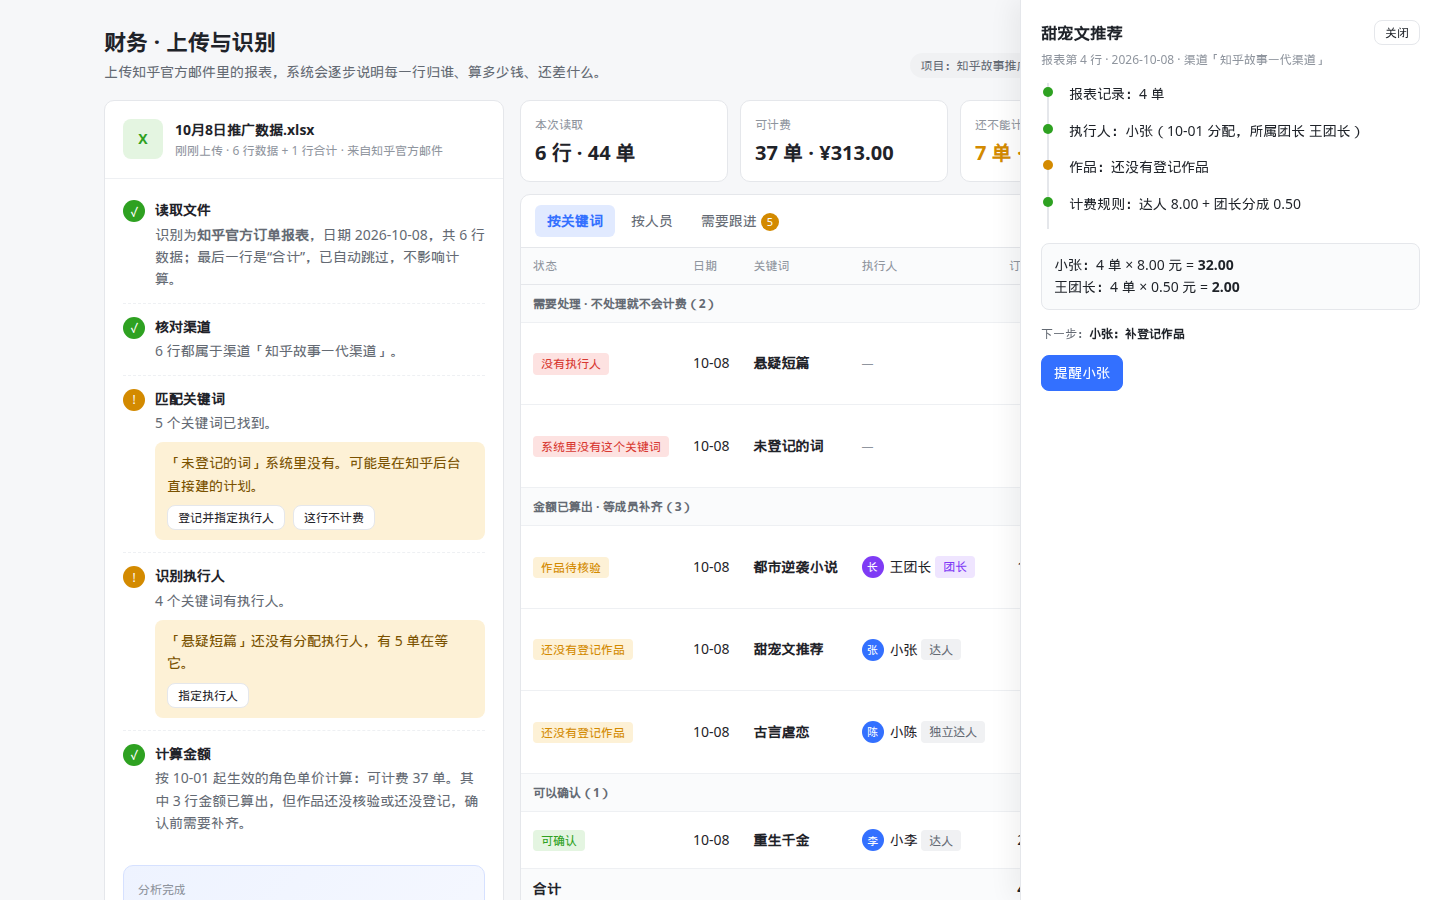
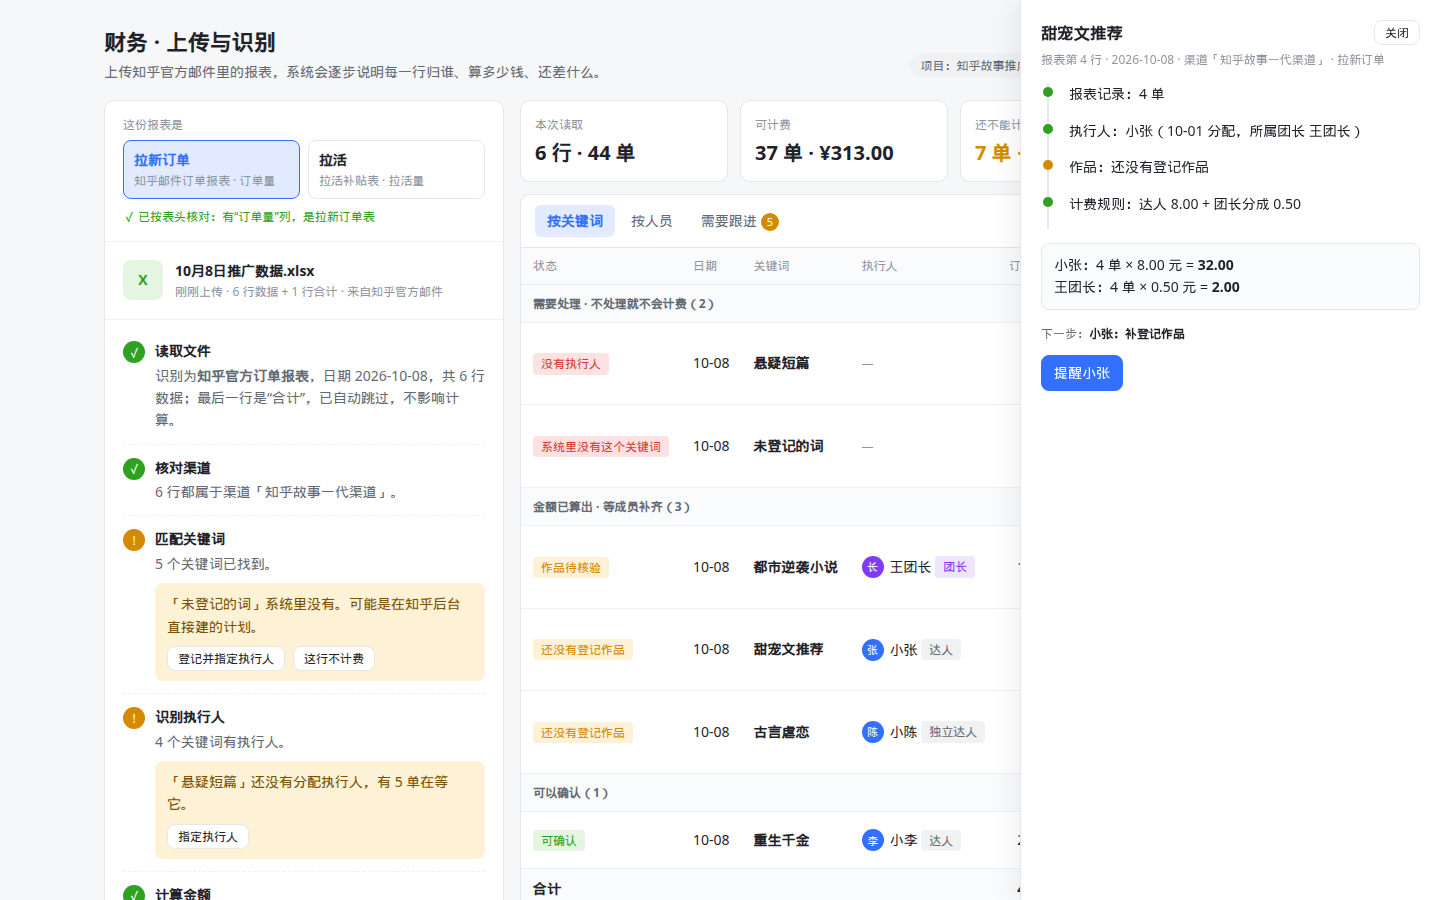
docs: add new-user vs activation report type selection to prototype

Changed region(s): [[0.0625, 0.1244, 0.3438, 1.0]]

diff --git a/prototypes/report-analysis/index.html b/prototypes/report-analysis/index.html
@@ -81,6 +81,13 @@ tfoot td{font-weight:600;background:#fafbfc}
 .trace li.cur:before{background:var(--amber)}
 .formula{background:#fafbfc;border:1px solid var(--line);border-radius:8px;padding:10px 12px;font-variant-numeric:tabular-nums}
 .cards{display:none}
+.type-pick{padding:14px 18px;border-bottom:1px solid var(--line2)}
+.seg{display:grid;grid-template-columns:1fr 1fr;gap:8px;margin-top:6px}
+.opt{display:block;border:1px solid var(--line);border-radius:8px;padding:8px 10px;color:var(--ink);text-decoration:none;font-weight:600}
+.opt small{display:block;font-weight:400;color:var(--ink3);font-size:12px}
+.opt.on{border-color:var(--brand);background:var(--brand-soft);color:var(--brand)}
+.check{margin-top:8px;font-size:12px;color:var(--green)}
+.t-type{background:#e8f3ff;color:#1f6fd1}
 @media (max-width:900px){
  .page{padding:12px}
  .grid{grid-template-columns:1fr}
@@ -104,7 +111,8 @@ tfoot td{font-weight:600;background:#fafbfc}
  </div>
  <div class="grid">
   <div class="card" id="agent">
-   <div class="drop"><div class="file-ico">X</div><div><div class="file-name">10月8日推广数据.xlsx</div><div class="muted">刚刚上传 · 6 行数据 + 1 行合计 · 来自知乎官方邮件</div></div></div>
+   <div class="type-pick" id="typePick"></div>
+   <div class="drop"><div class="file-ico">X</div><div><div class="file-name" id="fileName"></div><div class="muted" id="fileMeta"></div></div></div>
    <div class="steps" id="steps"></div>
    <div class="conclusion" id="conclusion">
     <div class="muted">分析完成</div>
@@ -115,7 +123,7 @@ tfoot td{font-weight:600;background:#fafbfc}
   </div>
   <div>
    <div class="metrics">
-    <div class="metric"><span class="muted">本次读取</span><b>6 行 · 44 单</b></div>
+    <div class="metric"><span class="muted">本次读取</span><b id="mRead">—</b></div>
     <div class="metric"><span class="muted">可计费</span><b id="mOk">—</b></div>
     <div class="metric warn"><span class="muted">还不能计费（已保留）</span><b id="mTodo">—</b></div>
     <div class="metric"><span class="muted">处理完预计再增加</span><b id="mEst">—</b></div>
@@ -137,7 +145,7 @@ tfoot td{font-weight:600;background:#fafbfc}
 </div>
 <aside class="drawer" id="drawer"></aside>
 <script>
-const rows=[
+const NEW_ROWS=[
  {kw:'重生千金',date:'10-08',orders:20,exec:'小李',role:'达人',leader:'王团长',rule:'达人 8.00 + 团长分成 0.50',lines:[['小李',160],['王团长',10]],status:'ok',next:'财务：确认账单',line:3},
  {kw:'都市逆袭小说',date:'10-08',orders:10,exec:'王团长',role:'团长',leader:'—',rule:'团长本人 8.50',lines:[['王团长',85]],status:'wait',reason:'作品待核验',next:'管理员：核验作品',line:2,act:'去核验'},
  {kw:'甜宠文推荐',date:'10-08',orders:4,exec:'小张',role:'达人',leader:'王团长',rule:'达人 8.00 + 团长分成 0.50',lines:[['小张',32],['王团长',2]],status:'wait',reason:'还没有登记作品',next:'小张：补登记作品',line:4,act:'提醒小张'},
@@ -145,36 +153,60 @@ const rows=[
  {kw:'悬疑短篇',date:'10-08',orders:5,exec:null,role:'',leader:'',rule:'—',lines:[],status:'todo',reason:'没有执行人',next:'运营：指定执行人',line:6,act:'指定执行人'},
  {kw:'未登记的词',date:'10-08',orders:2,exec:null,role:'',leader:'',rule:'—',lines:[],status:'todo',reason:'系统里没有这个关键词',next:'运营：登记并指定执行人',line:7,act:'登记关键词'},
 ];
-const steps=[
+const NEW_STEPS=[
  {t:'读取文件',b:'识别为<b>知乎官方订单报表</b>，日期 2026-10-08，共 6 行数据；最后一行是“合计”，已自动跳过，不影响计算。'},
  {t:'核对渠道',b:'6 行都属于渠道「知乎故事一代渠道」。'},
  {t:'匹配关键词',b:'5 个关键词已找到。',ask:'「未登记的词」系统里没有。可能是在知乎后台直接建的计划。',acts:['登记并指定执行人','这行不计费']},
  {t:'识别执行人',b:'4 个关键词有执行人。',ask:'「悬疑短篇」还没有分配执行人，有 5 单在等它。',acts:['指定执行人']},
  {t:'计算金额',b:'按 10-01 起生效的角色单价计算：可计费 37 单。其中 3 行金额已算出，但作品还没核验或还没登记，确认前需要补齐。'},
 ];
+const ACT_ROWS=[
+ {kw:'浩浩哑女',date:'09-14',orders:1,exec:'小李',role:'达人',leader:'王团长',rule:'拉活：达人 1.20 + 团长分成 0.40',lines:[['小李',1.2],['王团长',0.4]],status:'ok',next:'财务：确认账单',line:2},
+ {kw:'重生千金',date:'09-14',orders:6,exec:'小李',role:'达人',leader:'王团长',rule:'拉活：达人 1.20 + 团长分成 0.40',lines:[['小李',7.2],['王团长',2.4]],status:'ok',next:'财务：确认账单',line:3},
+ {kw:'都市逆袭小说',date:'09-14',orders:2,exec:'王团长',role:'团长',leader:'—',rule:'拉活：团长本人 1.60',lines:[['王团长',3.2]],status:'ok',next:'财务：确认账单',line:4},
+ {kw:'古言虐恋',date:'09-14',orders:3,exec:'小陈',role:'独立达人',leader:'—',rule:'拉活：独立达人（单价未定）',lines:[],status:'todo',reason:'拉活单价还没设置',next:'财务：设置拉活单价',line:5,act:'去设置单价'},
+];
+const ACT_STEPS=[
+ {t:'读取文件',b:'识别为<b>拉活补贴表</b>（代理：广州渡川），日期 2026-09-14，共 4 行。'},
+ {t:'核对渠道',b:'4 行都属于渠道「渡川-知星河」，和拉新订单用的是同一个渠道。'},
+ {t:'匹配关键词',b:'4 个关键词都找到了，执行人沿用关键词当前的归属。'},
+ {t:'核对结算金额',b:'每行“结算金额 = 拉活量 × 2.00 元”，4 行全部一致，合计 ¥24.00。'},
+ {t:'计算金额',b:'按拉活单价计算：可计费 9 个。',ask:'独立达人的拉活单价还没定，小陈的 3 个拉活先保留，不会丢。',acts:['去设置拉活单价']},
+];
+const MODE=location.search.includes('activation')?'activation':'new';
+const rows=MODE==='activation'?ACT_ROWS:NEW_ROWS, steps=MODE==='activation'?ACT_STEPS:NEW_STEPS;
+const UNIT=MODE==='activation'?'个':'单', EST=MODE==='activation'?1.6:8.5;
 const fmt=n=>n.toLocaleString('zh-CN',{minimumFractionDigits:2});
 const amount=r=>r.lines.reduce((s,l)=>s+l[1],0);
 const tag=r=>r.status==='ok'?'<span class="tag t-ok">可确认</span>':r.status==='wait'?`<span class="tag t-wait">${r.reason}</span>`:`<span class="tag t-todo">${r.reason}</span>`;
 const av=(n)=>n?`<span class="person"><span class="avatar" style="background:${n.includes('团长')?'#7f3bf5':'#3370ff'}">${n.slice(-1)}</span>${n}</span>`:'<span class="muted">—</span>';
 let view='keyword';
 function setView(v){view=v;document.querySelectorAll('.view').forEach(e=>e.classList.toggle('active',e.dataset.v===v));render()}
+function header(){
+ const isAct=MODE==='activation';
+ document.getElementById('typePick').innerHTML=`<div class="muted">这份报表是</div><div class="seg"><a class="opt ${isAct?'':'on'}" href="?done">拉新订单<small>知乎邮件订单报表 · 订单量</small></a><a class="opt ${isAct?'on':''}" href="?done&activation">拉活<small>拉活补贴表 · 拉活量</small></a></div><div class="check">✓ 已按表头核对：${isAct?'有“拉活量”“结算金额”列，是拉活表':'有“订单量”列，是拉新订单表'}</div>`;
+ document.getElementById('fileName').textContent=isAct?'渡川-拉活补贴-0914.xlsx':'10月8日推广数据.xlsx';
+ document.getElementById('fileMeta').textContent=isAct?'刚刚上传 · 4 行数据 · 拉活补贴表':'刚刚上传 · 6 行数据 + 1 行合计 · 来自知乎官方邮件';
+}
 function render(){
  const okSum=rows.filter(r=>r.status!=='todo').reduce((s,r)=>s+amount(r),0);
  const todo=rows.filter(r=>r.status!=='ok');
  document.getElementById('todoCount').textContent=todo.length;
- document.getElementById('mOk').textContent='37 单 · ¥'+fmt(okSum);
- document.getElementById('mTodo').textContent='7 单 · 2 行';
- document.getElementById('mEst').textContent='约 ¥'+fmt(7*8.5);
+ const cnt=l=>l.reduce((s,r)=>s+r.orders,0), billable=rows.filter(r=>r.status!=='todo'), blocked=rows.filter(r=>r.status==='todo');
+ document.getElementById('mRead').textContent=rows.length+' 行 · '+cnt(rows)+' '+UNIT;
+ document.getElementById('mOk').textContent=cnt(billable)+' '+UNIT+' · ¥'+fmt(okSum);
+ document.getElementById('mTodo').textContent=cnt(blocked)+' '+UNIT+' · '+blocked.length+' 行';
+ document.getElementById('mEst').textContent='约 ¥'+fmt(cnt(blocked)*EST);
  document.getElementById('sumOk').textContent=fmt(rows.filter(r=>r.status==='ok').reduce((s,r)=>s+amount(r),0));
- document.getElementById('concText').innerHTML=`已算出 <b>¥${fmt(okSum)}</b>，其中 ¥${fmt(rows.filter(r=>r.status==='ok').reduce((s,r)=>s+amount(r),0))} 现在就能确认。<br>还有 <b>${todo.length} 件事</b>：2 件需要运营处理，3 件在等成员补作品或核验。`;
+ document.getElementById('concText').innerHTML=`已算出 <b>¥${fmt(okSum)}</b>，其中 ¥${fmt(rows.filter(r=>r.status==='ok').reduce((s,r)=>s+amount(r),0))} 现在就能确认。<br>${todo.length?`还有 <b>${todo.length} 件事</b>：${rows.filter(r=>r.status==='todo').length} 件需要马上处理，${rows.filter(r=>r.status==='wait').length} 件在等成员补作品或核验。`:'没有需要处理的事。'}`;
  const t=document.getElementById('table'),c=document.getElementById('cards');
  if(view==='person'){
   const people={};
   rows.forEach(r=>r.lines.forEach(([n,a])=>{const p=people[n]||(people[n]={self:0,team:0,orders:0,teamOrders:0,state:new Set()});if(n===r.exec){p.self+=a;p.orders+=r.orders}else{p.team+=a;p.teamOrders+=r.orders}p.state.add(r.status)}));
-  t.innerHTML='<thead><tr><th>收款人</th><th class="num">本人作品订单</th><th class="num">本人作品金额</th><th class="num">团队分成订单</th><th class="num">团队分成金额</th><th class="num">合计</th><th>状态</th></tr></thead><tbody>'+
+  t.innerHTML='<thead><tr><th>收款人</th><th class="num">本人'+(MODE==='activation'?'拉活':'订单')+'</th><th class="num">本人作品金额</th><th class="num">团队分成'+(MODE==='activation'?'拉活':'订单')+'</th><th class="num">团队分成金额</th><th class="num">合计</th><th>状态</th></tr></thead><tbody>'+
    Object.entries(people).map(([n,p])=>`<tr class="row"><td>${av(n)} ${n.includes('团长')?'<span class="tag t-leader">团长</span>':'<span class="tag t-role">达人</span>'}</td><td class="num">${p.orders||'—'}</td><td class="num">${p.self?fmt(p.self):'—'}</td><td class="num">${p.teamOrders||'—'}</td><td class="num">${p.team?fmt(p.team):'—'}</td><td class="num"><b>${fmt(p.self+p.team)}</b></td><td>${p.state.has('wait')?'<span class="tag t-wait">部分待补齐</span>':'<span class="tag t-ok">可确认</span>'}</td></tr>`).join('')+
    `</tbody><tfoot><tr><td>合计</td><td></td><td></td><td></td><td></td><td class="num">${fmt(okSum)}</td><td></td></tr></tfoot>`;
-  c.innerHTML=Object.entries(people).map(([n,p])=>`<div class="mcard"><div class="top">${av(n)}<span class="amt">¥${fmt(p.self+p.team)}</span></div><div class="meta">本人作品 ${p.orders} 单 ¥${fmt(p.self)}${p.team?` · 团队分成 ${p.teamOrders} 单 ¥${fmt(p.team)}`:''}</div></div>`).join('');
+  c.innerHTML=Object.entries(people).map(([n,p])=>`<div class="mcard"><div class="top">${av(n)}<span class="amt">¥${fmt(p.self+p.team)}</span></div><div class="meta">本人 ${p.orders} ${UNIT} ¥${fmt(p.self)}${p.team?` · 团队分成 ${p.teamOrders} ${UNIT} ¥${fmt(p.team)}`:''}</div></div>`).join('');
   return;
  }
  const list=view==='todo'?todo:rows;
@@ -185,19 +217,19 @@ function render(){
   body+=`<tr class="group"><td colspan="8">${label}（${g.length}）</td></tr>`;
   body+=g.map((r,i)=>`<tr class="row" onclick="openRow('${r.kw}')"><td>${tag(r)}</td><td>${r.date}</td><td><b>${r.kw}</b></td><td>${av(r.exec)}${r.role?` <span class="tag ${r.role==='团长'?'t-leader':'t-role'}">${r.role}</span>`:''}</td><td class="num">${r.orders}</td><td class="muted wrap">${r.rule}</td><td class="num">${r.lines.length?fmt(amount(r)):'<span class="muted">待算</span>'}</td><td><div class="next">下一步：<b>${r.next}</b></div>${r.act?`<button class="btn small" onclick="event.stopPropagation()">${r.act}</button>`:''}</td></tr>`).join('');
  }
- t.innerHTML='<thead><tr><th>状态</th><th>日期</th><th>关键词</th><th>执行人</th><th class="num">订单</th><th>计费规则</th><th class="num">金额</th><th>下一步</th></tr></thead><tbody>'+body+`</tbody><tfoot><tr><td colspan="4">合计</td><td class="num">${list.reduce((s,r)=>s+r.orders,0)}</td><td></td><td class="num">${fmt(list.reduce((s,r)=>s+amount(r),0))}</td><td></td></tr></tfoot>`;
- c.innerHTML=list.map(r=>`<div class="mcard" onclick="openRow('${r.kw}')"><div class="top"><b>${r.kw}</b>${tag(r)}</div><div class="meta">${r.exec?r.exec+' · ':''}${r.orders} 单 · ${r.rule}</div><div class="top"><span class="next">下一步：<b>${r.next}</b></span><span class="amt">${r.lines.length?'¥'+fmt(amount(r)):'待算'}</span></div></div>`).join('');
+ t.innerHTML='<thead><tr><th>状态</th><th>日期</th><th>关键词</th><th>执行人</th><th class="num">'+(MODE==='activation'?'拉活量':'订单')+'</th><th>计费规则</th><th class="num">金额</th><th>下一步</th></tr></thead><tbody>'+body+`</tbody><tfoot><tr><td colspan="4">合计</td><td class="num">${list.reduce((s,r)=>s+r.orders,0)}</td><td></td><td class="num">${fmt(list.reduce((s,r)=>s+amount(r),0))}</td><td></td></tr></tfoot>`;
+ c.innerHTML=list.map(r=>`<div class="mcard" onclick="openRow('${r.kw}')"><div class="top"><b>${r.kw}</b>${tag(r)}</div><div class="meta">${r.exec?r.exec+' · ':''}${r.orders} ${UNIT} · ${r.rule}</div><div class="top"><span class="next">下一步：<b>${r.next}</b></span><span class="amt">${r.lines.length?'¥'+fmt(amount(r)):'待算'}</span></div></div>`).join('');
 }
 function openRow(kw){
  const r=rows.find(x=>x.kw===kw),d=document.getElementById('drawer');
- d.innerHTML=`<button class="btn small" style="float:right" onclick="document.getElementById('drawer').classList.remove('on')">关闭</button><h3>${r.kw}</h3><div class="muted">报表第 ${r.line} 行 · 2026-10-08 · 渠道「知乎故事一代渠道」</div>
+ d.innerHTML=`<button class="btn small" style="float:right" onclick="document.getElementById('drawer').classList.remove('on')">关闭</button><h3>${r.kw}</h3><div class="muted">报表第 ${r.line} 行 · ${MODE==='activation'?'2026-09-14 · 渠道「渡川-知星河」 · 拉活':'2026-10-08 · 渠道「知乎故事一代渠道」 · 拉新订单'}</div>
  <ul class="trace">
-  <li>报表记录：${r.orders} 单</li>
+  <li>报表记录：${r.orders} ${UNIT}${MODE==='activation'?'，上游结算 ¥'+fmt(r.orders*2):''}</li>
   <li class="${r.exec?'':'cur'}">执行人：${r.exec?r.exec+'（10-01 分配，'+(r.leader&&r.leader!=='—'?'所属团长 '+r.leader:'无团长')+'）':'还没有，<b>需要运营指定</b>'}</li>
   <li class="${r.status==='wait'?'cur':''}">作品：${r.status==='ok'?'已登记并通过核验':r.reason||'—'}</li>
   <li>计费规则：${r.rule}</li>
  </ul>
- ${r.lines.length?`<div class="formula">${r.lines.map(([n,a])=>`${n}：${r.orders} 单 × ${(a/r.orders).toFixed(2)} 元 = <b>${fmt(a)}</b>`).join('<br>')}</div>`:'<div class="formula">指定执行人后，系统会自动重新计算，不需要重新上传报表。</div>'}
+ ${r.lines.length?`<div class="formula">${r.lines.map(([n,a])=>`${n}：${r.orders} ${UNIT} × ${(a/r.orders).toFixed(2)} 元 = <b>${fmt(a)}</b>`).join('<br>')}</div>`:'<div class="formula">指定执行人后，系统会自动重新计算，不需要重新上传报表。</div>'}
  <p class="next" style="margin-top:14px">下一步：<b>${r.next}</b></p>${r.act?`<button class="btn primary">${r.act}</button>`:''}`;
  d.classList.add('on');
 }
@@ -208,7 +240,7 @@ function play(instant){
   el.classList.add('on','run');setTimeout(()=>{el.classList.remove('run');el.classList.add(steps[i].ask?'ask':'done');el.querySelector('.dot').textContent=steps[i].ask?'!':'✓';show(i+1)},instant?0:700)};
  if(instant){steps.forEach((s,i)=>{const el=document.getElementById('s'+i);el.classList.add('on',s.ask?'ask':'done');el.querySelector('.dot').textContent=s.ask?'!':'✓'});document.getElementById('conclusion').classList.add('on')}else show(0);
 }
-render();play(location.search.includes('done'));
+header();render();play(location.search.includes('done'));
 if(location.search.includes('drawer'))openRow('甜宠文推荐');
 if(location.search.includes('person'))setView('person');
 </script>
